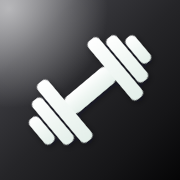
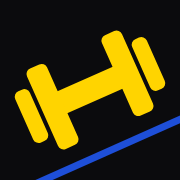
Icono de app: mancuerna amarilla sobre negro con franja azul
Claude-Session: https://claude.ai/code/session_01PweRyRK4Rm61b7ut4UTEEc

diff --git a/index.html b/index.html
@@ -3,17 +3,17 @@
 <head>
 <meta charset="utf-8">
 <meta name="viewport" content="width=device-width,initial-scale=1,viewport-fit=cover">
-<link rel="icon" type="image/svg+xml" href="icon.svg?v=26">
-<link rel="apple-touch-icon" href="apple-touch-icon.png?v=26">
+<link rel="icon" type="image/svg+xml" href="icon.svg?v=27">
+<link rel="apple-touch-icon" href="apple-touch-icon.png?v=27">
 <title>Mi Rutina</title>
 <link rel="preconnect" href="https://fonts.googleapis.com"><link rel="preconnect" href="https://fonts.gstatic.com" crossorigin><link rel="stylesheet" href="https://fonts.googleapis.com/css2?family=Anton&family=Barlow:wght@400;500;600;700&family=Barlow+Condensed:wght@600;700&family=IBM+Plex+Mono:wght@400;500;600&display=swap">
-<link rel="stylesheet" href="style.css?v=26">
+<link rel="stylesheet" href="style.css?v=27">
 </head>
 <body>
 <div id="app"></div>
 <script src="https://cdn.jsdelivr.net/npm/@supabase/supabase-js@2.45.4/dist/umd/supabase.min.js"></script>
 <script src="config.js"></script>
-<script src="xlsx-lite.js?v=26"></script>
-<script src="app.js?v=26"></script>
+<script src="xlsx-lite.js?v=27"></script>
+<script src="app.js?v=27"></script>
 </body>
 </html>
